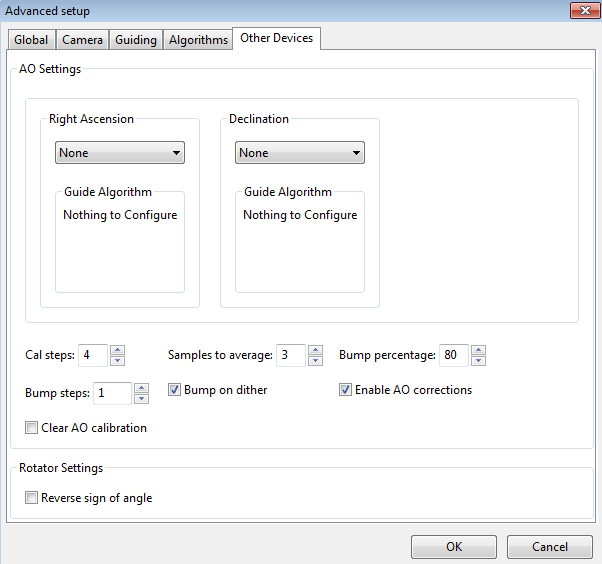
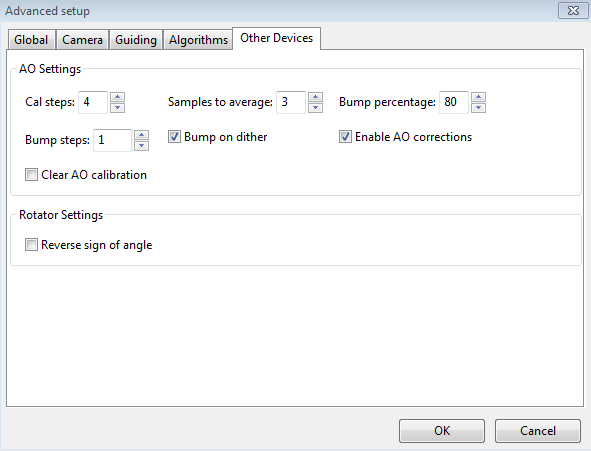
Change help content to reflect new AO presentation in Advanced Dialog

diff --git a/help/Advanced_settings.htm b/help/Advanced_settings.htm
@@ -308,27 +308,11 @@ will leave the star positoned off-target for an extended period of
 time. So you'll probably want to use conservative parameters for
 aggressiveness if you are disallowing direction reversals.
 &nbsp;Finally, a choice of 'none' here disables declination guiding
-altogether.</li></ul><br><h3><a name="Other_Devices_Tab"></a>Other Devices Tab</h3><span style="font-size: 10pt; font-family: Arial;"></span><img style="width: 602px; height: 564px;" alt="" src="Advanced_other.png"><br><br>If
+altogether.</li></ul><br><h3><a name="Other_Devices_Tab"></a>Other Devices Tab</h3><span style="font-size: 10pt; font-family: Arial;"></span><img style="width: 591px; height: 451px;" alt="" src="Advanced_other.png"><br><br>If
 you are using either an adaptive optics or rotator device, the "Other
 Devices" tab will be shown. &nbsp;The upper section deals with the AO
-device if one is being used. &nbsp;The guiding algorithm choices shown
-there apply to the control of the tip/tilt optical element in the AO
-device
-itself, not to the "bump" commands sent to the mount. &nbsp;So the
-guide algorithm choices on the 'Other Devices' tab operate
-independently from the choices on the 'Algorithms' tab. &nbsp;Since the
-AO device is not trying to move a heavy piece of equipment, you can
-afford to be more aggressive in your guide algorithm parameters.
-&nbsp;The default algorithms for an AO are&nbsp;'None', which means
-there will be
-no damping or history-based calculations applied at all. &nbsp;In that
-case, each correction will be based only on the most recent guide frame
-and will make a 100% correction of the most recent deflection. &nbsp;If
-you use a different algorithm,&nbsp;you should
-probably start with a high level of aggressiveness there as well,
-perhaps 100%.
-&nbsp;<br><br>You
-can use the four parameters at the bottom of the AO tab to control the
+device if one is being used. &nbsp;You
+can use the first four parameters&nbsp;to control the
 calibration process and the manner in which 'bump' operations are done.
 &nbsp;The 'calibration step' field tells <span style="font-style: italic;">PHD2</span> the amount to move the
 tip/tilt element&nbsp;in each of the up/down/left/right directions, in
@@ -354,10 +338,33 @@ required in order to maintain good guiding, with no elongated stars,
 even as the mount is being bumped. &nbsp;During the bump operation, the
 AO is continuing to make corrections, so the long "mount bump" is
 continuously&nbsp;offset by adjustments in the AO.<br><br>The
+'Bump on dither' option tells PHD2 to bump the mount when a dither
+command is received and thus move the guide star back closer to the
+center position of the AO. &nbsp;The
 option to enable or disable AO guide commands operates independently
-from the 'Enable mount guiding' checkbox in the Guiding tab. &nbsp;So you can
-independently enable/disable either the guide commands to the tip/tilt device or the
-'bump' guide commands to the mount.<br><br>The rotator device has only
+from the 'Enable mount guiding' checkbox in the Guiding tab. &nbsp;So
+you can
+independently enable/disable either the guide commands to the tip/tilt
+device or the
+'bump' guide commands to the mount. &nbsp;The same principle holds for
+the 'Clear AO calibration' option - that will force a recalibration of
+the AO without affecting calibration of the mount.<br><br>When an AO is in use, the 'Algorithms' tab will only show choices for controlling the tip/tilt optical element in the AO
+device
+itself.<br><br><img style="width: 590px; height: 450px;" alt="" src="Advanced_other_Algo.png"><br><br>Since
+the
+AO is not trying to move a heavy piece of equipment, you can
+afford to be more aggressive in your guide algorithm choices.
+&nbsp;The default algorithms for an AO are&nbsp;'None', which means
+there will be
+no damping or history-based calculations applied at all. &nbsp;In that
+case, each correction will be based only on the most recent guide frame
+and will make a 100% correction of the most recent deflection. &nbsp;If
+you use a different algorithm,&nbsp;you should
+probably start with a high level of aggressiveness there as well,
+perhaps 100%.
+&nbsp; The other, shared guiding parameters normally displayed on the
+'Algorithms' tab will not be shown for the AO because they aren't used
+to control the device.<br><br>The rotator device has only
 one parameter, which lets you match the behavior of the device to the
 ASCOM notion of positive and negative angles. &nbsp;The "Reversed"
 checkbox can be used for
